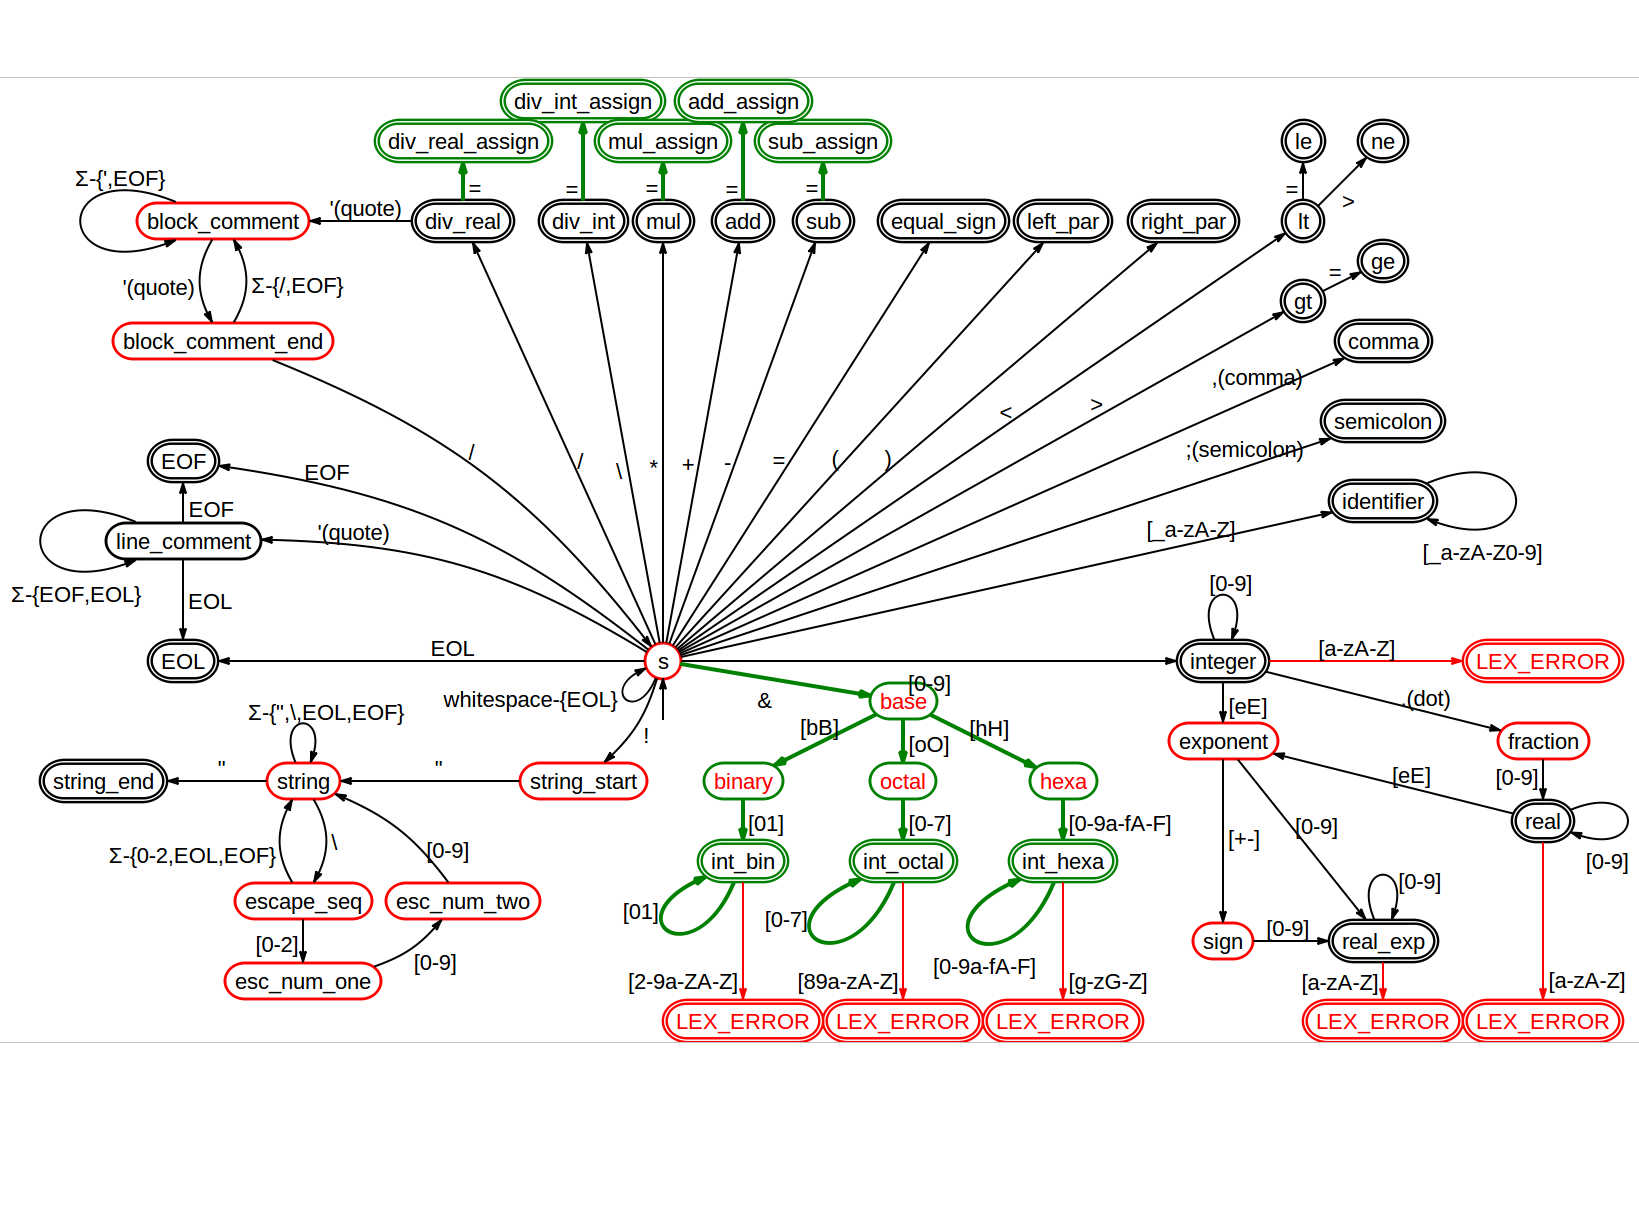
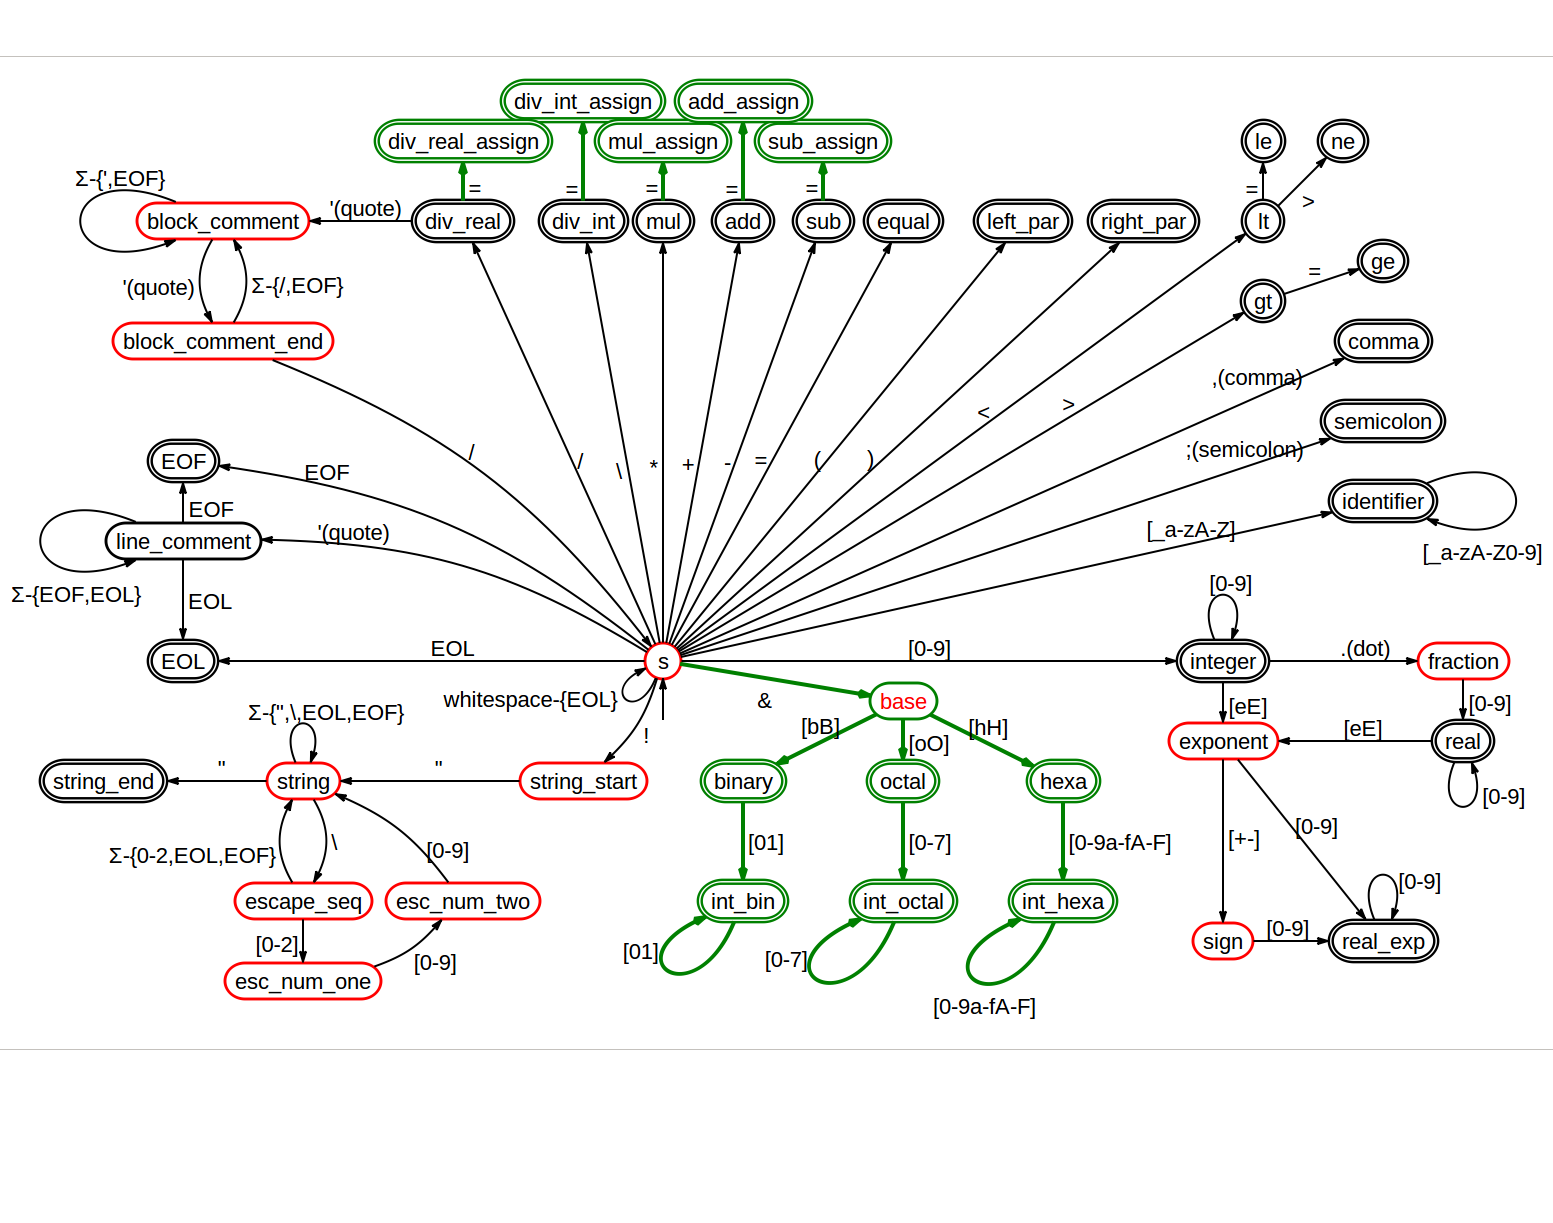
Scanner doc for catching longest valid prefix #28

diff --git a/doc/scanner/scanner.tex b/doc/scanner/scanner.tex
@@ -2,12 +2,12 @@
 \usepackage{vaucanson-g}
 \begin{document}
 \begin{VCPicture}{(0,0)(30,30)}
-%52 states
+%46 states
 \FinalStateVar[mul]{(10,25)}{Q0}
 \ChgStateLineColor{red}
 \State[s]{(10,14)}{Q1}
 \RstStateLineColor
-\FinalStateVar[le]{(26,27)}{Q10} \FinalStateVar[ne]{(28,27)}{Q11} \FinalStateVar[gt]{(26,23)}{Q12}
+\FinalStateVar[le]{(25,27)}{Q10} \FinalStateVar[ne]{(27,27)}{Q11} \FinalStateVar[gt]{(25,23)}{Q12}
 \FinalStateVar[ge]{(28,24)}{Q13}
 \ChgStateLineColor{red}
 \StateVar[block_comment_end]{(-1,22)}{Q14} \StateVar[string_start]{(8,11)}{Q15} \StateVar[string]{(1,11)}{Q16}
@@ -16,12 +16,12 @@
 \ChgStateLineColor{red}
 \StateVar[escape_seq]{(1,8)}{Q18}
 \RstStateLineColor
-\FinalStateVar[left_par]{(20,25)}{Q19} \FinalStateVar[identifier]{(28,18)}{Q2} \FinalStateVar[right_par]{(23,25)}{Q20}
+\FinalStateVar[left_par]{(19,25)}{Q19} \FinalStateVar[identifier]{(28,18)}{Q2} \FinalStateVar[right_par]{(22,25)}{Q20}
 \FinalStateVar[integer]{(24,14)}{Q21}
 \ChgStateLineColor{red}
-\StateVar[fraction]{(32,12)}{Q22} \StateVar[exponent]{(24,12)}{Q23}
+\StateVar[fraction]{(30,14)}{Q22} \StateVar[exponent]{(24,12)}{Q23}
 \RstStateLineColor
-\FinalStateVar[real]{(32,10)}{Q24}
+\FinalStateVar[real]{(30,12)}{Q24}
 \ChgStateLineColor{red}
 \StateVar[sign]{(24,7)}{Q25}
 \RstStateLineColor
@@ -36,38 +36,26 @@
 \FinalStateVar[semicolon]{(28,20)}{Q31}
 \ChgStateLineColor{green}
 \ChgStateLabelColor{red}
-\StateVar[base]{(16,13)}{Q32} \StateVar[binary]{(12,11)}{Q33} \StateVar[octal]{(16,11)}{Q34}
-\StateVar[hexa]{(20,11)}{Q35}
+\StateVar[base]{(16,13)}{Q32}
 \RstStateLabelColor
+\FinalStateVar[binary]{(12,11)}{Q33} \FinalStateVar[octal]{(16,11)}{Q34} \FinalStateVar[hexa]{(20,11)}{Q35}
 \FinalStateVar[div_int_assign]{(8,28)}{Q36} \FinalStateVar[div_real_assign]{(5,27)}{Q37} \FinalStateVar[mul_assign]{(10,27)}{Q38}
 \FinalStateVar[sub_assign]{(14,27)}{Q39}
 \RstStateLineColor
 \FinalStateVar[sub]{(14,25)}{Q4}
 \ChgStateLineColor{green}
-\FinalStateVar[add_assign]{(12,28)}{Q40} \FinalStateVar[int_bin]{(12,9)}{Q41} \FinalStateVar[int_octal]{(16,9)}{Q42}
-\FinalStateVar[int_hexa]{(20,9)}{Q43}
+\FinalStateVar[add_assign]{(12,28)}{Q40} \FinalStateVar[int_bin]{(12,8)}{Q41} \FinalStateVar[int_octal]{(16,8)}{Q42}
+\FinalStateVar[int_hexa]{(20,8)}{Q43}
 \RstStateLineColor
-\FinalStateVar[EOL]{(-2,14)}{Q44} \FinalStateVar[real_exp]{(28,7)}{Q45}
-\ChgStateLineColor{red}
-\ChgStateLabelColor{red}
-\FinalStateVar[LEX_ERROR]{(20,5)}{Q46} \FinalStateVar[LEX_ERROR]{(16,5)}{Q47} \FinalStateVar[LEX_ERROR]{(12,5)}{Q48}
-\FinalStateVar[LEX_ERROR]{(28,5)}{Q49}
-\RstStateLineColor
-\RstStateLabelColor
-\FinalStateVar[div_int]{(8,25)}{Q5}
-\ChgStateLineColor{red}
-\ChgStateLabelColor{red}
-\FinalStateVar[LEX_ERROR]{(32,5)}{Q50} \FinalStateVar[LEX_ERROR]{(32,14)}{Q51}
-\RstStateLineColor
-\RstStateLabelColor
+\FinalStateVar[EOL]{(-2,14)}{Q44} \FinalStateVar[real_exp]{(28,7)}{Q45} \FinalStateVar[div_int]{(8,25)}{Q5}
 \FinalStateVar[div_real]{(5,25)}{Q6}
 \ChgStateLineColor{red}
 \StateVar[block_comment]{(-1,25)}{Q7}
 \RstStateLineColor
-\FinalStateVar[equal_sign]{(17,25)}{Q8} \FinalStateVar[lt]{(26,25)}{Q9}
+\FinalStateVar[equal]{(16,25)}{Q8} \FinalStateVar[lt]{(25,25)}{Q9}
 %1 initial-final
 \Initial[s]{Q1}
-%70 transitions
+%64 transitions
 \ChgEdgeLineWidth{2}
 \ChgEdgeLineColor{green}
 
@@ -80,7 +68,7 @@
 \EdgeL{Q1}{Q8}{=} \EdgeL[0.55]{Q1}{Q9}{<}
 \EdgeL[0.7]{Q1}{Q12}{>} \EdgeL{Q1}{Q19}{(}
 \EdgeL{Q1}{Q20}{)} \EdgeL[0.9]{Q1}{Q28}{, (comma)}
-\EdgeR[0.5]{Q1}{Q21}{[0-9]} \ArcR[0.8]{Q1}{Q26}{' (quote)}
+\EdgeL[0.5]{Q1}{Q21}{[0-9]} \ArcR[0.8]{Q1}{Q26}{' (quote)}
 \EdgeL[0.9]{Q1}{Q31}{;(semicolon)} \CLoopSW[0.6]{Q1}{whitespace-\{EOL\}}
 \ArcL[0.45]{Q1}{Q15}{!}
 \ChgEdgeLineWidth{2}
@@ -92,21 +80,28 @@
 \EdgeL{Q12}{Q13}{=} \LArcR[0.5]{Q14}{Q7}{E - \{ /,EOF \}}
 \ArcL[0.45]{Q14}{Q1}{/} \EdgeR{Q15}{Q16}{"}
 \EdgeR{Q16}{Q17}{"} \LArcL[0.45]{Q16}{Q18}{\\}
-\CLoopN[0.5]{Q16}{E- \{",\\,EOL,EOF  \}} \LArcL{Q18}{Q16}{E- \{0-2, EOL,EOF\}}
+\CLoopN[0.5]{Q16}{E - \{",\\,EOL,EOF  \}} \LArcL{Q18}{Q16}{E - \{0-2, EOL,EOF\}}
 \EdgeR{Q18}{Q29}{[0-2]} \CLoopE[0.8]{Q2}{[ _a-zA-Z0-9]}
 \EdgeL[0.65]{Q21}{Q22}{.(dot)} \EdgeL{Q21}{Q23}{[eE]}
-\CLoopN[0.5]{Q21}{[0-9]} \EdgeR[0.3]{Q22}{Q24}{[0-9]}
+\CLoopN[0.5]{Q21}{[0-9]} \EdgeL{Q22}{Q24}{[0-9]}
 \EdgeL{Q23}{Q25}{[+-]} \EdgeL{Q23}{Q45}{[0-9]}
-\CLoopE[0.8]{Q24}{[0-9]} \EdgeR{Q24}{Q23}{[eE]}
+\CLoopS[0.8]{Q24}{[0-9]} \EdgeR{Q24}{Q23}{[eE]}
 \EdgeL{Q25}{Q45}{[0-9]} \EdgeR{Q26}{Q27}{EOF}
-\CLoopW[0.8]{Q26}{E- \{EOF, EOL\}} \EdgeL{Q26}{Q44}{EOL}
+\CLoopW[0.8]{Q26}{E - \{EOF, EOL\}} \EdgeL{Q26}{Q44}{EOL}
+\ArcR[0.6]{Q29}{Q30}{[0-9]}
 \ChgEdgeLineWidth{2}
 \ChgEdgeLineColor{green}
-\EdgeL[0.2]{Q3}{Q40}{=} \EdgeR{Q32}{Q33}{[bB]}
-\EdgeL{Q32}{Q34}{[oO]} \EdgeL{Q32}{Q35}{[hH]}
-\EdgeL{Q33}{Q41}{[01]} \EdgeL{Q34}{Q42}{[0-7]}
-\EdgeL{Q35}{Q43}{[0-9a-fA-F]} \EdgeL{Q4}{Q39}{=}
-\CLoopSW[0.7]{Q41}{[01]} \CLoopSW[0.7]{Q42}{[0-7]}
+\EdgeL[0.2]{Q3}{Q40}{=}
+\RstEdgeLineWidth
+\RstEdgeLineColor
+\ArcR[0.2]{Q30}{Q16}{[0-9]}
+\ChgEdgeLineWidth{2}
+\ChgEdgeLineColor{green}
+\EdgeR{Q32}{Q33}{[bB]} \EdgeL{Q32}{Q35}{[hH]}
+\EdgeL{Q32}{Q34}{[oO]} \EdgeL{Q33}{Q41}{[01]}
+\EdgeL{Q34}{Q42}{[0-7]} \EdgeL{Q35}{Q43}{[0-9a-fA-F]}
+\EdgeL{Q4}{Q39}{=} \CLoopSW[0.7]{Q41}{[01]}
+\CLoopSW[0.7]{Q42}{[0-7]} \CLoopSW[0.38]{Q43}{[0-9a-fA-F]}
 \RstEdgeLineWidth
 \RstEdgeLineColor
 \CLoopN[0.7]{Q45}{[0-9]}
@@ -123,15 +118,5 @@
 \RstEdgeLineColor
 \LArcR[0.5]{Q7}{Q14}{'(quote)} \CLoopW[0.15]{Q7}{E - \{',EOF\}}
 \EdgeL[0.4]{Q9}{Q10}{=} \EdgeR{Q9}{Q11}{>}
-\ChgEdgeLineWidth{2}
-\ChgEdgeLineColor{green}
-\CLoopSW[0.38]{Q43}{[0-9a-fA-F]}
-\RstEdgeLineWidth
-\ChgEdgeLineColor{red}
-\EdgeR[0.8]{Q42}{Q47}{[89a-zA-Z]} \EdgeR[0.8]{Q41}{Q48}{[2-9a-ZA-Z]}
-\EdgeL[0.8]{Q43}{Q46}{[g-zG-Z]} \EdgeR[0.4]{Q45}{Q49}{[a-zA-Z]}
-\EdgeL[0.85]{Q24}{Q50}{[a-zA-Z]} \EdgeL{Q21}{Q51}{[a-zA-Z]}
-\RstEdgeLineColor
-\ArcR[0.6]{Q29}{Q30}{[0-9]} \ArcR[0.2]{Q30}{Q16}{[0-9]}
 \end{VCPicture}
 \end{document}
